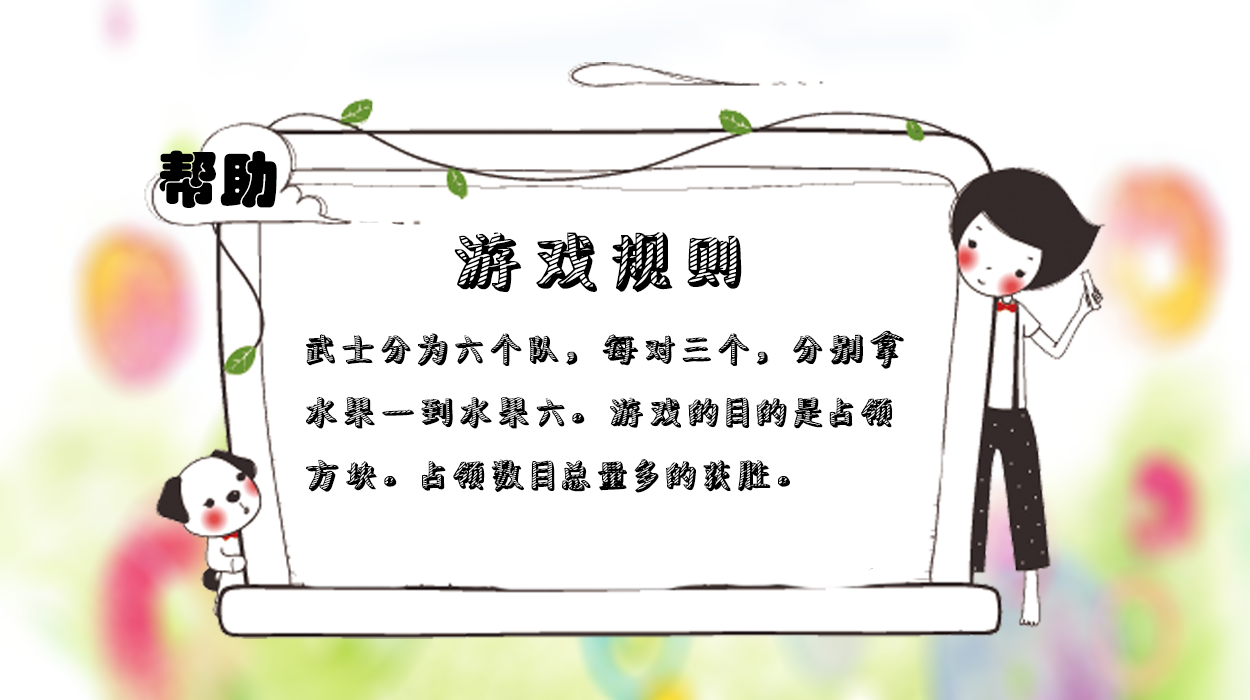
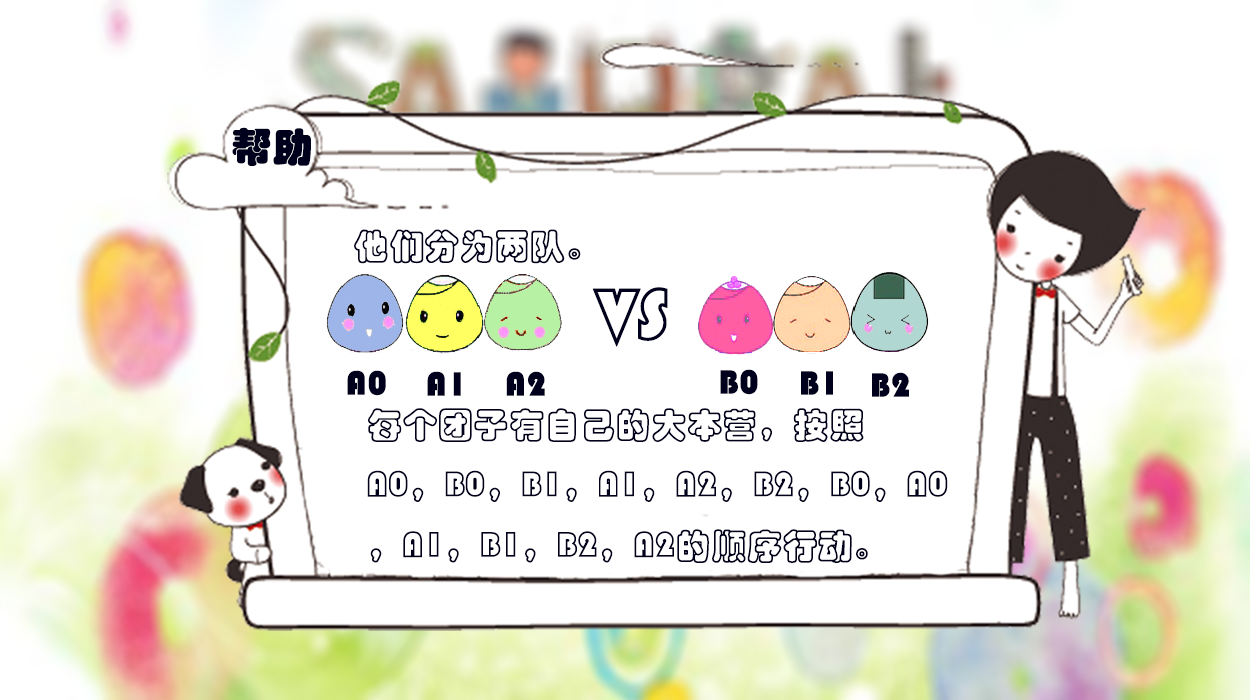
更新帮助面板

diff --git a/AI/src/ai/PlayerSword.java b/AI/src/ai/PlayerSword.java
@@ -1,34 +1,10 @@
 package ai;
 
+import data.SamuraiInfo;
+
 public class PlayerSword extends Player{
 	
-	/**
-	 *  假设有三个在上场 ， 你只能杀一个。那么可能杀了以后你就死了。就逃跑吧
-	 */
-	public final static int RUN_AWAY = 0;
-	/**
-	 * 可以杀一个人并且应该为安全的
-	 */
-	public final static int CAN_KILL_ONE = 1;
-	/**
-	 * 双杀。不需要考虑会不会死。死俩值了
-	 */
-	public final static int DOUBLE_KILL = 2;
-	/**
-	 * 嘿嘿
-	 */
-	public final static int TRIPLE_KILL = 3;
-	/**
-	 * 该片区域全部被占领了，并且没有人在。
-	 */
-	public final static int OCCUPY_ALL = 4;
-	/**
-	 * 没人并且部分占领了。
-	 */
-	public final static int NOBODY_PART = 5;
-	
-	
-	
+
 	@Override
 	public void play() {
 		// TODO Auto-generated method stub
@@ -36,11 +12,50 @@ public class PlayerSword extends Player{
 	}
 	
 	public int analizeField(){
+		//如果这里有人的话就先杀人。
+		int enemiesNum = this.samuraiInfo.enemyInOwnEyes.size();
+		//Which is most situation
+		if(enemiesNum == 1){
+			int[] only = this.samuraiInfo.enemyInOwnEyes.get(0);
+			if(CanKillOne(only)){
+				return Player.CAN_KILL_ONE;
+			}else{
+				return Player.ONE_OUT_REACH;
+			}
+			
+		}else if(enemiesNum == 2){
+			int[] first = this.samuraiInfo.enemyInOwnEyes.get(0);
+			int[] second = this.samuraiInfo.enemyInOwnEyes.get(1);
+			
+			if(first[0] == second[0] || first[1] == second[1]){
+				if(this.CanKillOne(first) && this.CanKillOne(second)){
+					return Player.DOUBLE_KILL;
+				}
+			}else{
+				
+			}
+			
+		}
+		if(enemiesNum > 0){
+			int canKillNum = 0;
+			for(int[] each : this.samuraiInfo.enemyInOwnEyes){
+				if(Math.abs(each[0] - this.samuraiInfo.curX) + Math.abs(each[1] - this.samuraiInfo.curY) <= 5){
+					canKillNum++;
+				}
+			}
+		}
 		
 		
 		
-		
-		return 0;
+		return Player.OCCUPY_ALL;
+	}
+	
+	public boolean CanKillOne(int[] only){
+		return (only[0] - this.samuraiInfo.curX <= 1 && this.samuraiInfo.curX  - only[0] <= 1 )||(only[1] - this.samuraiInfo.curY <= 1 && this.samuraiInfo.curY  - only[1] <= 1 );
+	}
+	
+	public boolean CanKillOnlyOne(int[] only, int curX , int curY){
+		return (only[0] - curX <= 1 && curX  - only[0] <= 1 )||(only[1] - curY <= 1 && curY  - only[1] <= 1 );
 	}
 	
 	

diff --git a/AI/src/ai/Player.java b/AI/src/ai/Player.java
@@ -25,6 +25,44 @@ import data.SamuraiInfo;
  * 
  */
 public abstract class Player {
+	
+	
+	/**
+	 *  假设有三个在上场 ， 你只能杀一个。那么可能杀了以后你就死了。就逃跑吧
+	 */
+	public final static int RUN_AWAY = 0;
+	/**
+	 * 可以杀一个人并且应该为安全的
+	 */
+	public final static int CAN_KILL_ONE = 1;
+	/**
+	 * 双杀。不需要考虑会不会死。死俩值了
+	 */
+	public final static int DOUBLE_KILL = 2;
+	/**
+	 * 嘿嘿
+	 */
+	public final static int TRIPLE_KILL = 3;
+	/**
+	 * 有一个人但是打不到
+	 */
+	public final static int ONE_OUT_REACH = 4;
+	/**
+	 * 两个人并且打不到
+	 */
+	public final static int TWO_OUT_REACH = 5;
+	/**
+	 * 该片区域全部被占领了，并且没有人在。
+	 */
+	public final static int OCCUPY_ALL = 6;
+	/**
+	 * 没人并且部分占领了。
+	 */
+	public final static int NOBODY_PART = 7;
+	
+	
+	
+	
 	/**
 	 *  每个AI肯定了解游戏信息和自身信息。
 	 */

diff --git a/Samurai/src/team/csca/view/image/ImgBackground.java b/Samurai/src/team/csca/view/image/ImgBackground.java
@@ -26,10 +26,13 @@ public class ImgBackground {
 	
 	static{
 		HELP_BACKGOUNDS = new Image[]{
+				new ImageIcon("Image/HelpPanel/backgroundhelp_page0.png").getImage(),
 				new ImageIcon("Image/HelpPanel/backgroundhelp_page1.png").getImage() ,
 				new ImageIcon("Image/HelpPanel/backgroundhelp_page2.png").getImage() ,
 				new ImageIcon("Image/HelpPanel/backgroundhelp_page3.png").getImage(),
-				//TODO : Any more pictures;
+				new ImageIcon("Image/HelpPanel/backgroundhelp_page4.png").getImage(),
+				new ImageIcon("Image/HelpPanel/backgroundhelp_page5.png").getImage(),
+				new ImageIcon("Image/HelpPanel/backgroundhelp_page6.png").getImage(),
 				};
 	}
 	

diff --git a/Samurai/src/team/csca/view/help/JButtonPre.java b/Samurai/src/team/csca/view/help/JButtonPre.java
@@ -13,7 +13,7 @@ public class JButtonPre extends DynamicButton{
 	
 	public JButtonPre(JPanelHelp fatherPanel){
 		
-		super(245, 585, 50, 50, ImgButton.NEXT_LEFT_INIT, ImgButton.NEXT_LEFT_ENTER , ImgButton.NEXT_LEFT_CLICKED);
+		super(266, 576, 50, 50, ImgButton.NEXT_LEFT_INIT, ImgButton.NEXT_LEFT_ENTER , ImgButton.NEXT_LEFT_CLICKED);
 		this.fatherPanel = fatherPanel;
 		this.setButtonImg(ImgButton.NEXT_LEFT_ENABLE);
 		this.setEnabled(false);

diff --git a/Samurai/src/team/csca/view/help/JButtonExitHelp.java b/Samurai/src/team/csca/view/help/JButtonExitHelp.java
@@ -12,7 +12,7 @@ public class JButtonExitHelp extends DynamicButton{
 	private JPanelHelp fatherPanel;
 	
 	public JButtonExitHelp(JPanelHelp fatherPanel){
-		super(928, 103, 60, 60, ImgButton.RETURN_FROM_INIT, ImgButton.RETURN_FROM_ENTER, ImgButton.RETURN_FROM_CLICKED);
+		super(983, 92, 60, 60, ImgButton.RETURN_FROM_INIT, ImgButton.RETURN_FROM_ENTER, ImgButton.RETURN_FROM_CLICKED);
 		this.fatherPanel = fatherPanel;
 	}
 	

diff --git a/Samurai/src/team/csca/view/help/JButtonNext.java b/Samurai/src/team/csca/view/help/JButtonNext.java
@@ -13,7 +13,7 @@ public class JButtonNext extends DynamicButton{
 	
 	public JButtonNext(JPanelHelp fatherPanel){
 		
-		super(925, 585, 50, 50, ImgButton.NEXT_RIGHT_INIT , ImgButton.NEXT_RIGHT_ENTER , ImgButton.NEXT_RIGHT_CLICKED);
+		super(926, 576, 50, 50, ImgButton.NEXT_RIGHT_INIT , ImgButton.NEXT_RIGHT_ENTER , ImgButton.NEXT_RIGHT_CLICKED);
 		this.fatherPanel = fatherPanel;
 	
 	}

diff --git a/Samurai/src/team/csca/view/help/JPanelHelp.java b/Samurai/src/team/csca/view/help/JPanelHelp.java
@@ -9,7 +9,7 @@ import team.csca.view.image.ImgBackground;
 
 public class JPanelHelp extends JPanel{
 	
-	protected final static int LAST_INDEX = 2;
+	protected final static int LAST_INDEX = 6;
 	
 	protected int numOfPic = 0;
 	
